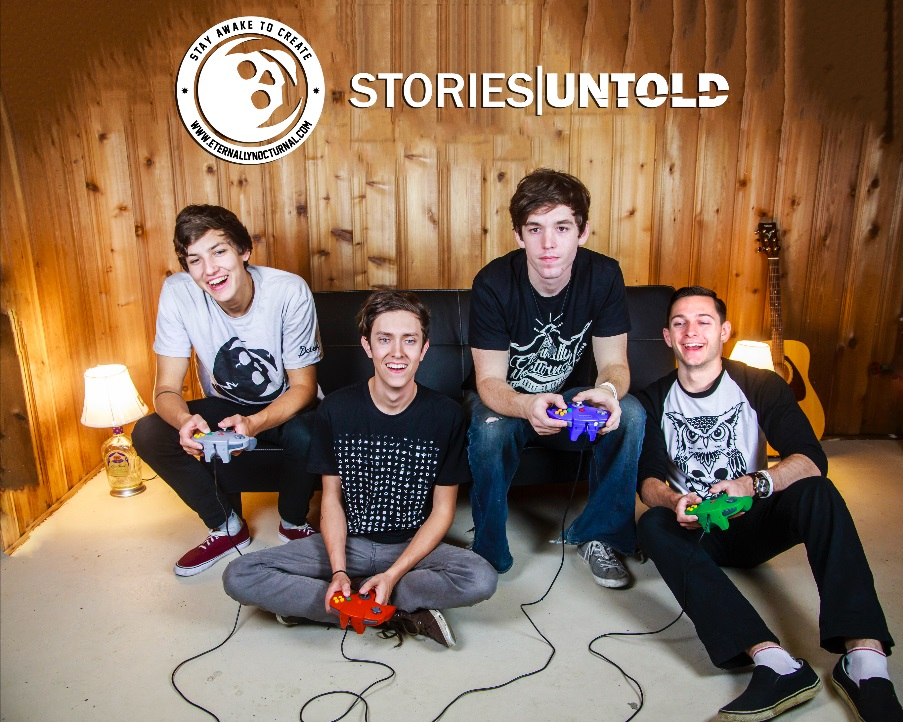
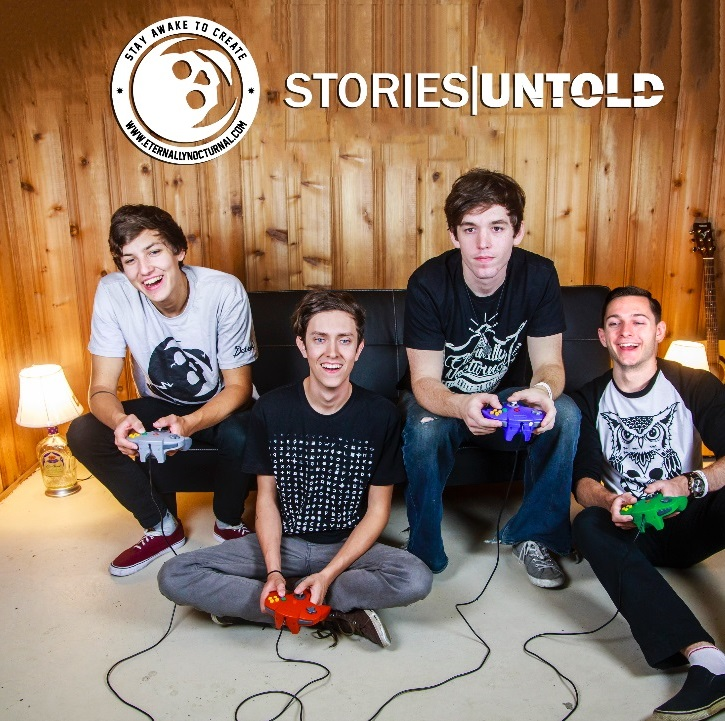
maybe fixes image aspect ratio

diff --git a/resources/views/welcome.blade.php b/resources/views/welcome.blade.php
@@ -6,29 +6,32 @@
         <div class="row">
             <div class="row">
 
-                    <div class="row" style="background-color:#000;color:#fff;padding:2%;opacity:.8;border-radius:15px;font-size:4em">
+                    <div class="row" style="background-color:#000;color:#fff;padding:2%;opacity:.8;border-radius:15px;font-size:3em">
 
                         <div class="row" style="min-height:700px;background-image: url('http://manage.band/images/n64.jpg');background-repeat:no-repeat;background-size:100%;">
-                        <div class="row" style="background-color:#000;color:#fff;padding:2%;opacity:.8;border-radius:15px;text-align:center">
-                            Manage your business from the studio, the road, or anywhere else that has an internet connection. <br> <br>
-                        </div>
+                            <div class="col-sm-12" style="background-color:#000;color:#fff;padding:2%;opacity:.8;border-radius:15px;text-align:center">
+                                Manage your business from the studio, the road, or anywhere else that has an internet connection. <br> <br>
+                            </div>
                         <!-- spacer -->
-                        <div class="row" style="min-height:400px"></div>
-
-                        <div class="row" style="background-color:#000;color:#fff;opacity:.8;border-radius:15px;text-align:center">
-                                From amps to Zildjian, manage your gear and make sure you have everything you need to succeed. <br> <br>
-                            <div class="row" style="margin-left:2%;min-height:600px;background-image: url('http://manage.band/images/brennandrums2.jpg');background-repeat:no-repeat;background-size:99%;"></div>
+                            <div class="row" style="min-height:400px"></div>
+                        <div class="row" style="opacity:.2;min-height:600px;background-image: url('http://manage.band/images/brennandrums2.jpg');background-repeat:no-repeat;background-size:100%;">
+                            <div class="col-sm-12" style="background-color:#000;color:#fff;opacity:.8;border-radius:15px;text-align:center">
+                                    From amps to Zildjian, manage your gear and make sure you have everything you need to succeed.
+                            </div>
+                            <div class="row" style="min-height:600px"></div>
+                        </div>
                         </div>
 
-                        <div class="row" style="background-color:#000;color:#fff;opacity:.8;padding-top:9%;border-radius:15px;text-align:center">
+                        <div class="col-sm-12" style="background-color:#000;color:#fff;opacity:.8;padding-top:9%;border-radius:15px;text-align:center">
                                 Connect with social media and the people you need to manage a show or tour. <br> <br>
-                        </div>
                         <div class="row" style="display:flex;min-height:600px;background-image: url('http://manage.band/images/connect.jpg');background-repeat:no-repeat;background-size:100%;"></div>
-                        <div class="row" style="background-color:#000;color:#fff;padding-top:9%;border-radius:15px;text-align:center">
+                        </div>
+                        
+                        <div class="col-sm-12" style="background-color:#000;color:#fff;padding-top:9%;border-radius:15px;text-align:center">
                             Sell tickets & merch online, manage inventory and shipping with only a few clicks.<br><br>
                             <button type="button" class="btn btn-default btn-lg" style="width:50%;height:100px" data-toggle="modal" data-target="#myModal">
                                 Sign Up for Free! <i class="fa fa-arrow-right"></i>
-                            </button>
+                            </button><br><br>
                             Our transaction fee is only 7% of the whole order -- no other charges.<br> <br>
                         </div>
                     </div>
